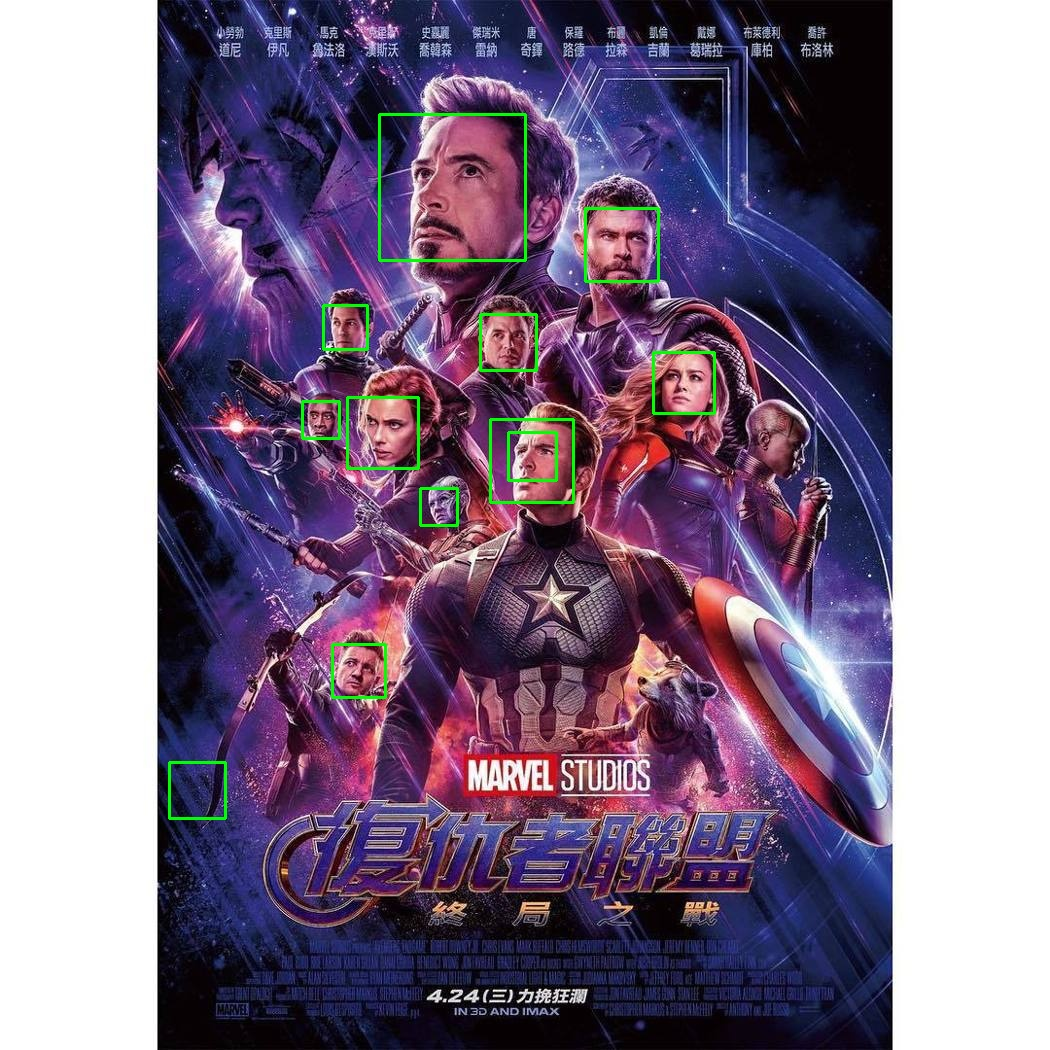
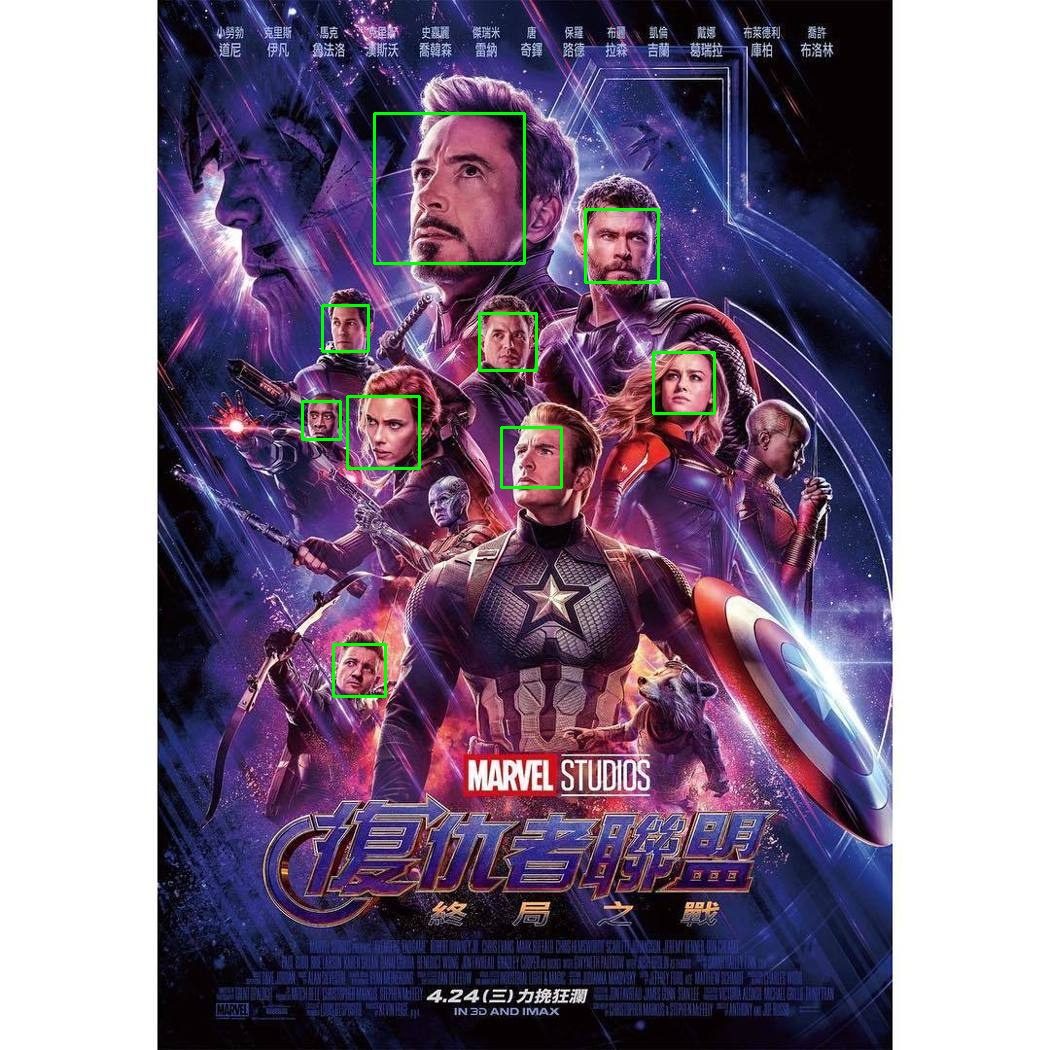
added

diff --git a/20190424-Face-Detection/detect_face_image.py b/20190424-Face-Detection/detect_face_image.py
@@ -10,8 +10,11 @@ img = cv2.imread('test.jpg')
 gray = cv2.cvtColor(img, cv2.COLOR_BGR2GRAY)
 
 # Detect faces
-faces = face_cascade.detectMultiScale(gray, 1.1, 4)
-
+faces = face_cascade.detectMultiScale(
+    gray,
+    scaleFactor=1.08,
+    minNeighbors=5,
+    minSize=(32, 32))
 # Draw rectangle around the faces
 for (x, y, w, h) in faces:
     cv2.rectangle(img, (x, y), (x + w, y + h), (0, 255, 0), 2)

diff --git a/20190424-Face-Detection/README.md b/20190424-Face-Detection/README.md
@@ -1,1 +1,5 @@
-# Face Detection using OpenCV
+# Python影像辨識筆記(一)：使用Open CV辨識圖片及影片中的人臉
+
+https://medium.com/@yanweiliu/python%E5%BD%B1%E5%83%8F%E8%BE%A8%E8%AD%98%E7%AD%86%E8%A8%98-%E4%B8%80-%E4%BD%BF%E7%94%A8open-cv%E8%BE%A8%E8%AD%98%E5%9C%96%E7%89%87%E5%8F%8A%E5%BD%B1%E7%89%87%E4%B8%AD%E7%9A%84%E4%BA%BA%E8%87%89-527ef48f3a86
+
+以電影海報為例
